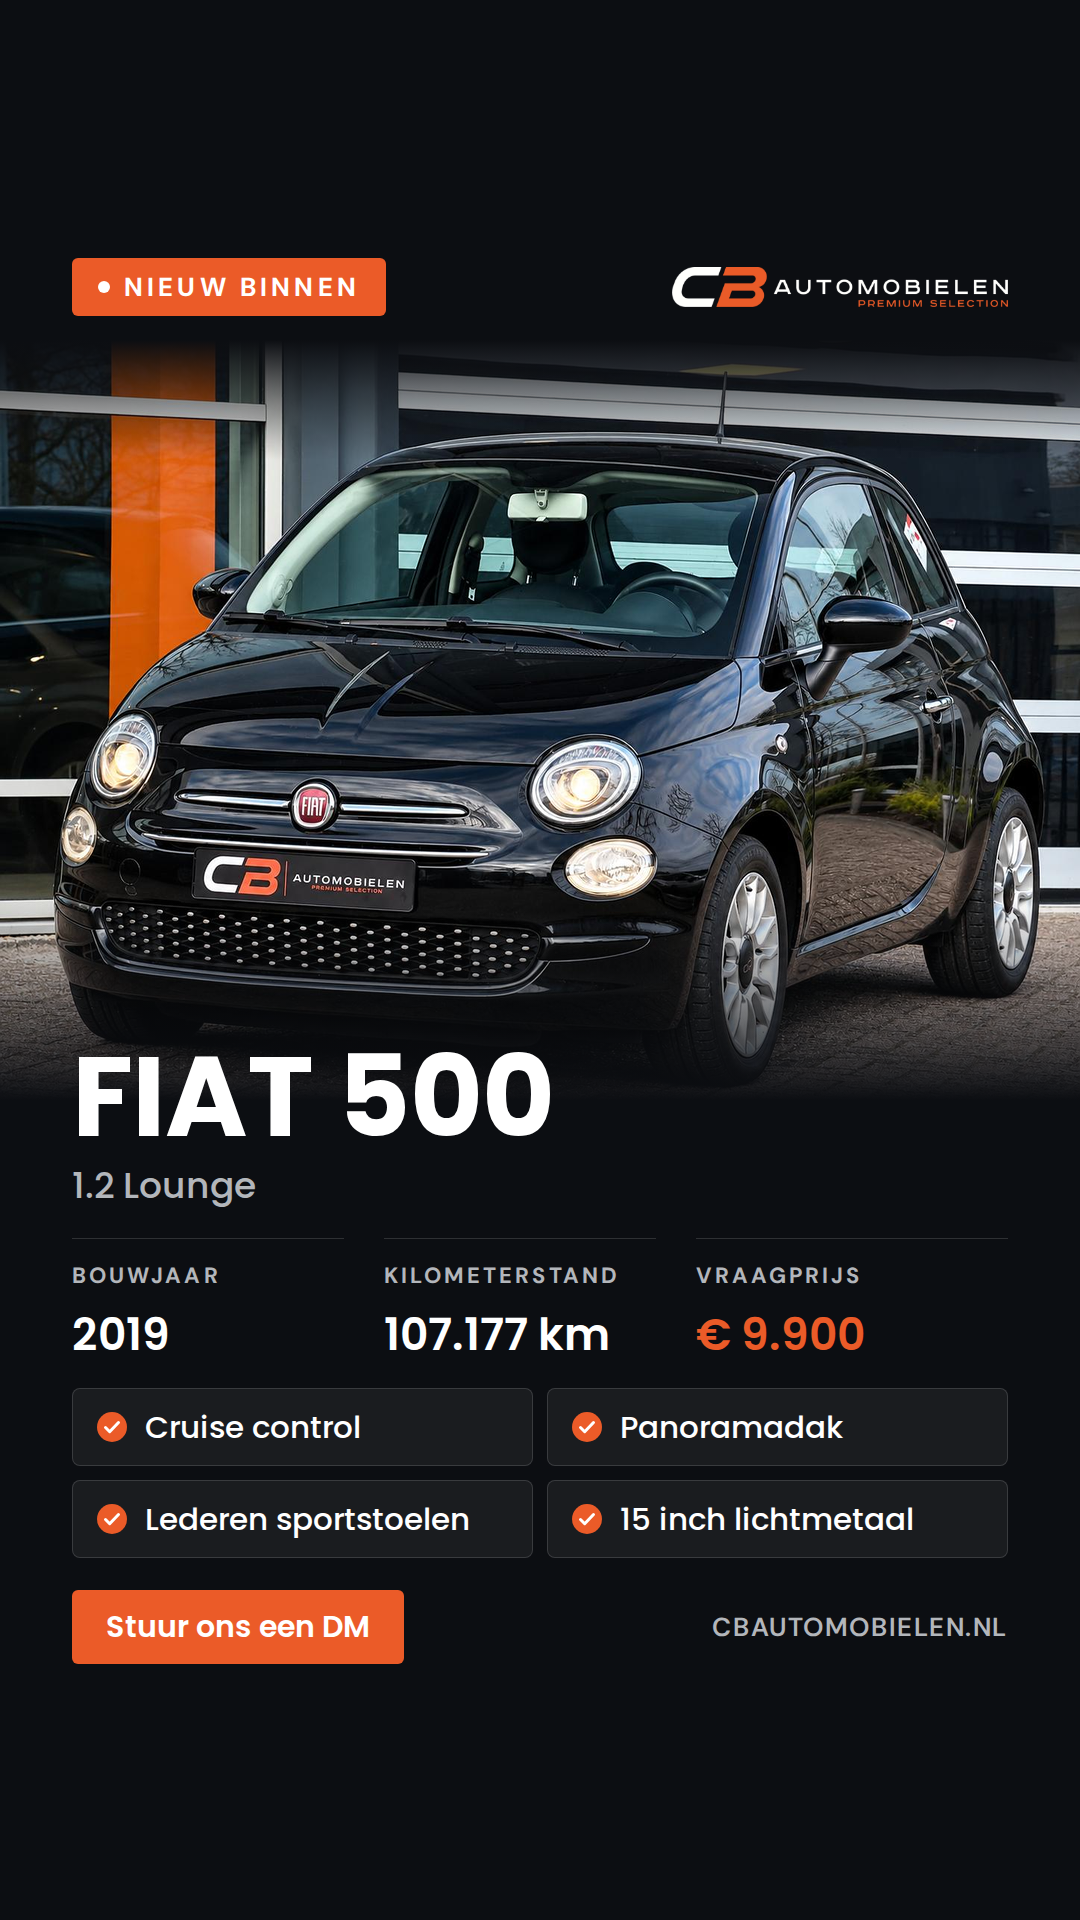
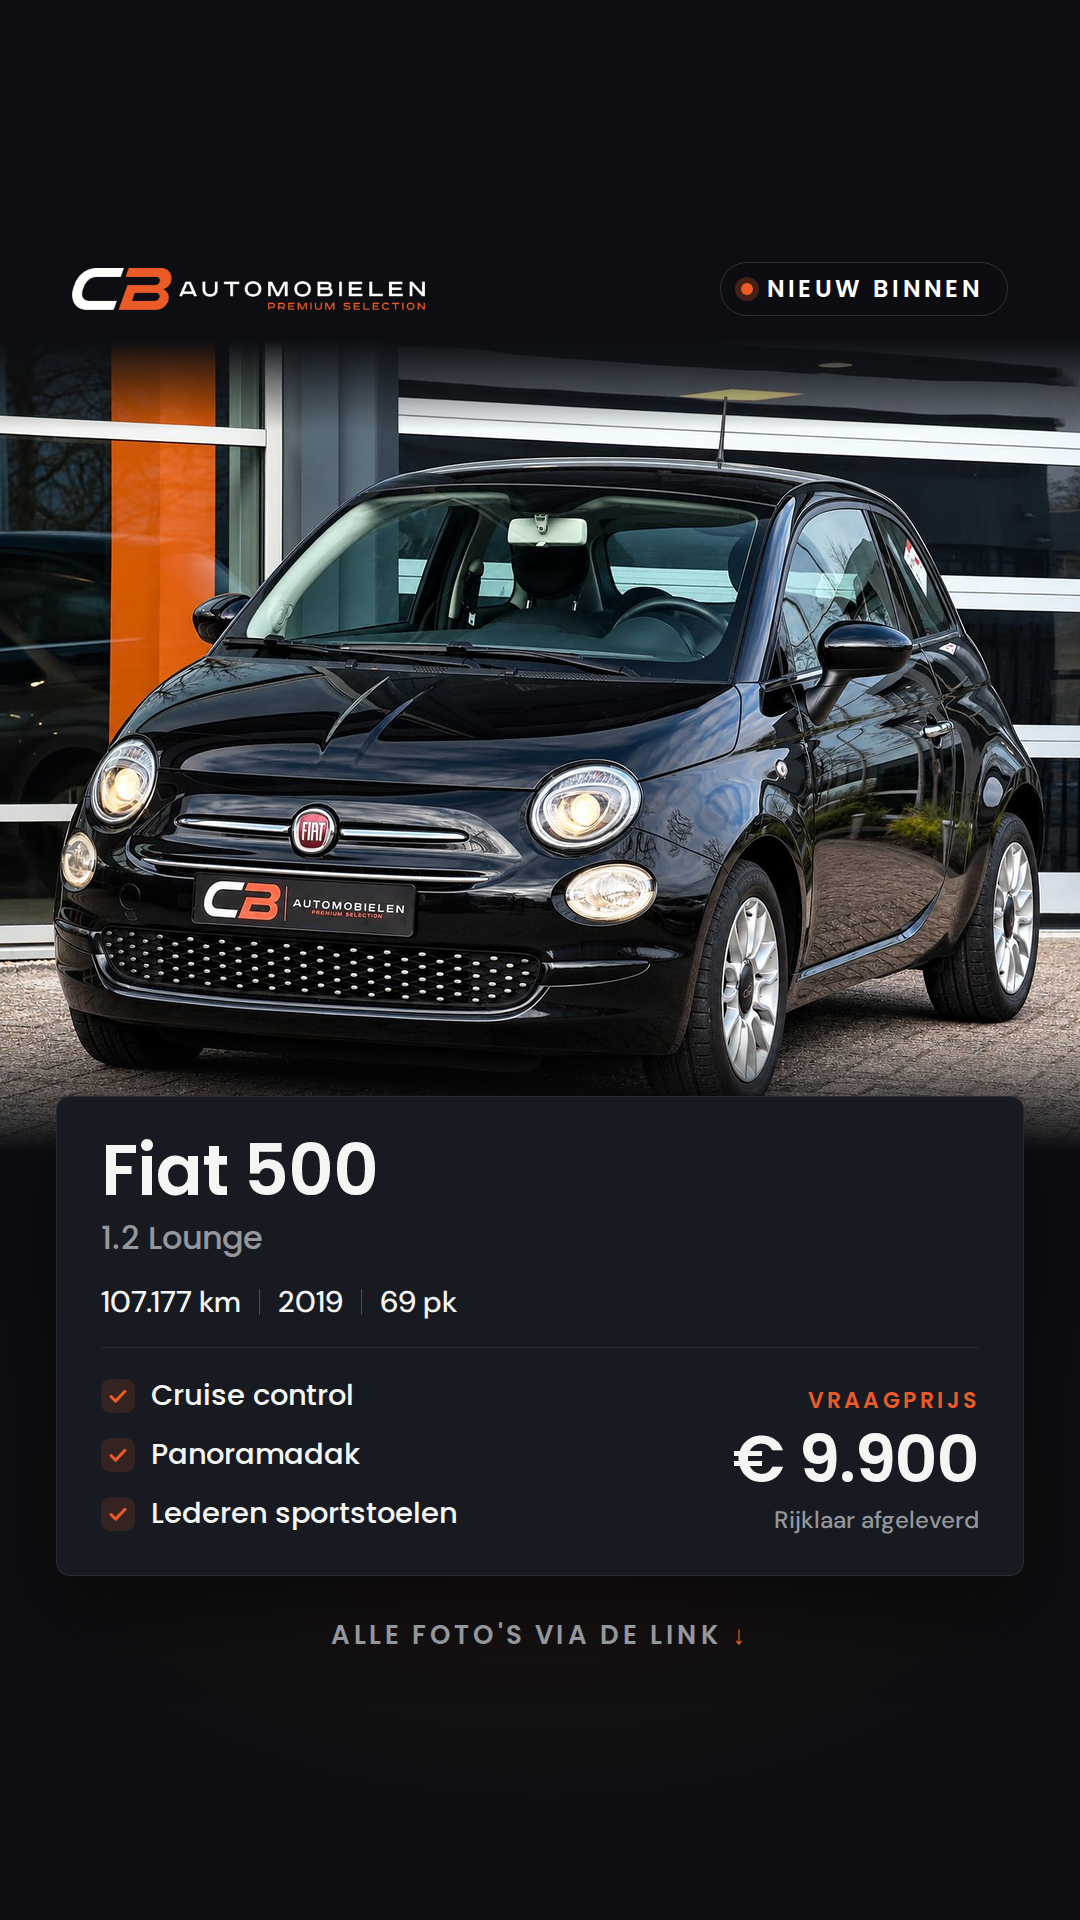
rapport 2026-11-10 09:47

Changed region(s): [[0.0, 0.125, 1.0, 0.875], [0.2444, 0.6562, 0.9167, 0.8125]]

diff --git a/stories/2026-11-10/README.md b/stories/2026-11-10/README.md
@@ -6,6 +6,21 @@
 - Link voor de linksticker: https://www.cbautomobielen.nl/aanbod/fiat-500-1-2-lounge-957438
 - Afbeelding: https://raw.githubusercontent.com/CBAutmobielen/cb-instagram-automaat/main/stories/2026-11-10/957438.png
 
+**Tekstideeën voor in je verhaal:**
+
+```
+Net binnen! 🔥 Fiat 500 1.2 Lounge
+Cruise control, panoramadak en lederen sportstoelen.
+2019 · 107.177 km · 69 pk · € 9.900
+Tik op de link voor alle foto's 👆
+```
+
+```
+Wie wordt de nieuwe eigenaar? 🔑
+Fiat 500: cruise control, panoramadak en lederen sportstoelen.
+Nu bij CB Automobielen in Sneek · € 9.900
+```
+
 ![story](957438.png)
 
 ## Mercedes-Benz B-Klasse 180 Ambition
@@ -14,6 +29,21 @@
 - Link voor de linksticker: https://www.cbautomobielen.nl/aanbod/mercedes-benz-b-klasse-180-ambition-958827
 - Afbeelding: https://raw.githubusercontent.com/CBAutmobielen/cb-instagram-automaat/main/stories/2026-11-10/958827.png
 
+**Tekstideeën voor in je verhaal:**
+
+```
+Net binnen! 🔥 Mercedes-Benz B-Klasse 180 Ambition
+Panoramaschuifdak, stoelverwarming en bi-xenonkoplampen.
+2013 · 188.975 km · 122 pk · € 9.900
+Tik op de link voor alle foto's 👆
+```
+
+```
+Wie wordt de nieuwe eigenaar? 🔑
+Mercedes-Benz B-Klasse: panoramaschuifdak, stoelverwarming en bi-xenonkoplampen.
+Nu bij CB Automobielen in Sneek · € 9.900
+```
+
 ![story](958827.png)
 
 ## Volkswagen up! 1.0
@@ -21,5 +51,20 @@
 - Prijs: € 9.900 · 2021 · 83.112 km · 65 pk
 - Link voor de linksticker: https://www.cbautomobielen.nl/aanbod/volkswagen-up-1-0-958039
 - Afbeelding: https://raw.githubusercontent.com/CBAutmobielen/cb-instagram-automaat/main/stories/2026-11-10/958039.png
+
+**Tekstideeën voor in je verhaal:**
+
+```
+Net binnen! 🔥 Volkswagen Up! 1.0
+Cruise control, achteruitrijcamera en airconditioning, automatisch.
+2021 · 83.112 km · 65 pk · € 9.900
+Tik op de link voor alle foto's 👆
+```
+
+```
+Wie wordt de nieuwe eigenaar? 🔑
+Volkswagen Up!: cruise control, achteruitrijcamera en airconditioning, automatisch.
+Nu bij CB Automobielen in Sneek · € 9.900
+```
 
 ![story](958039.png)
